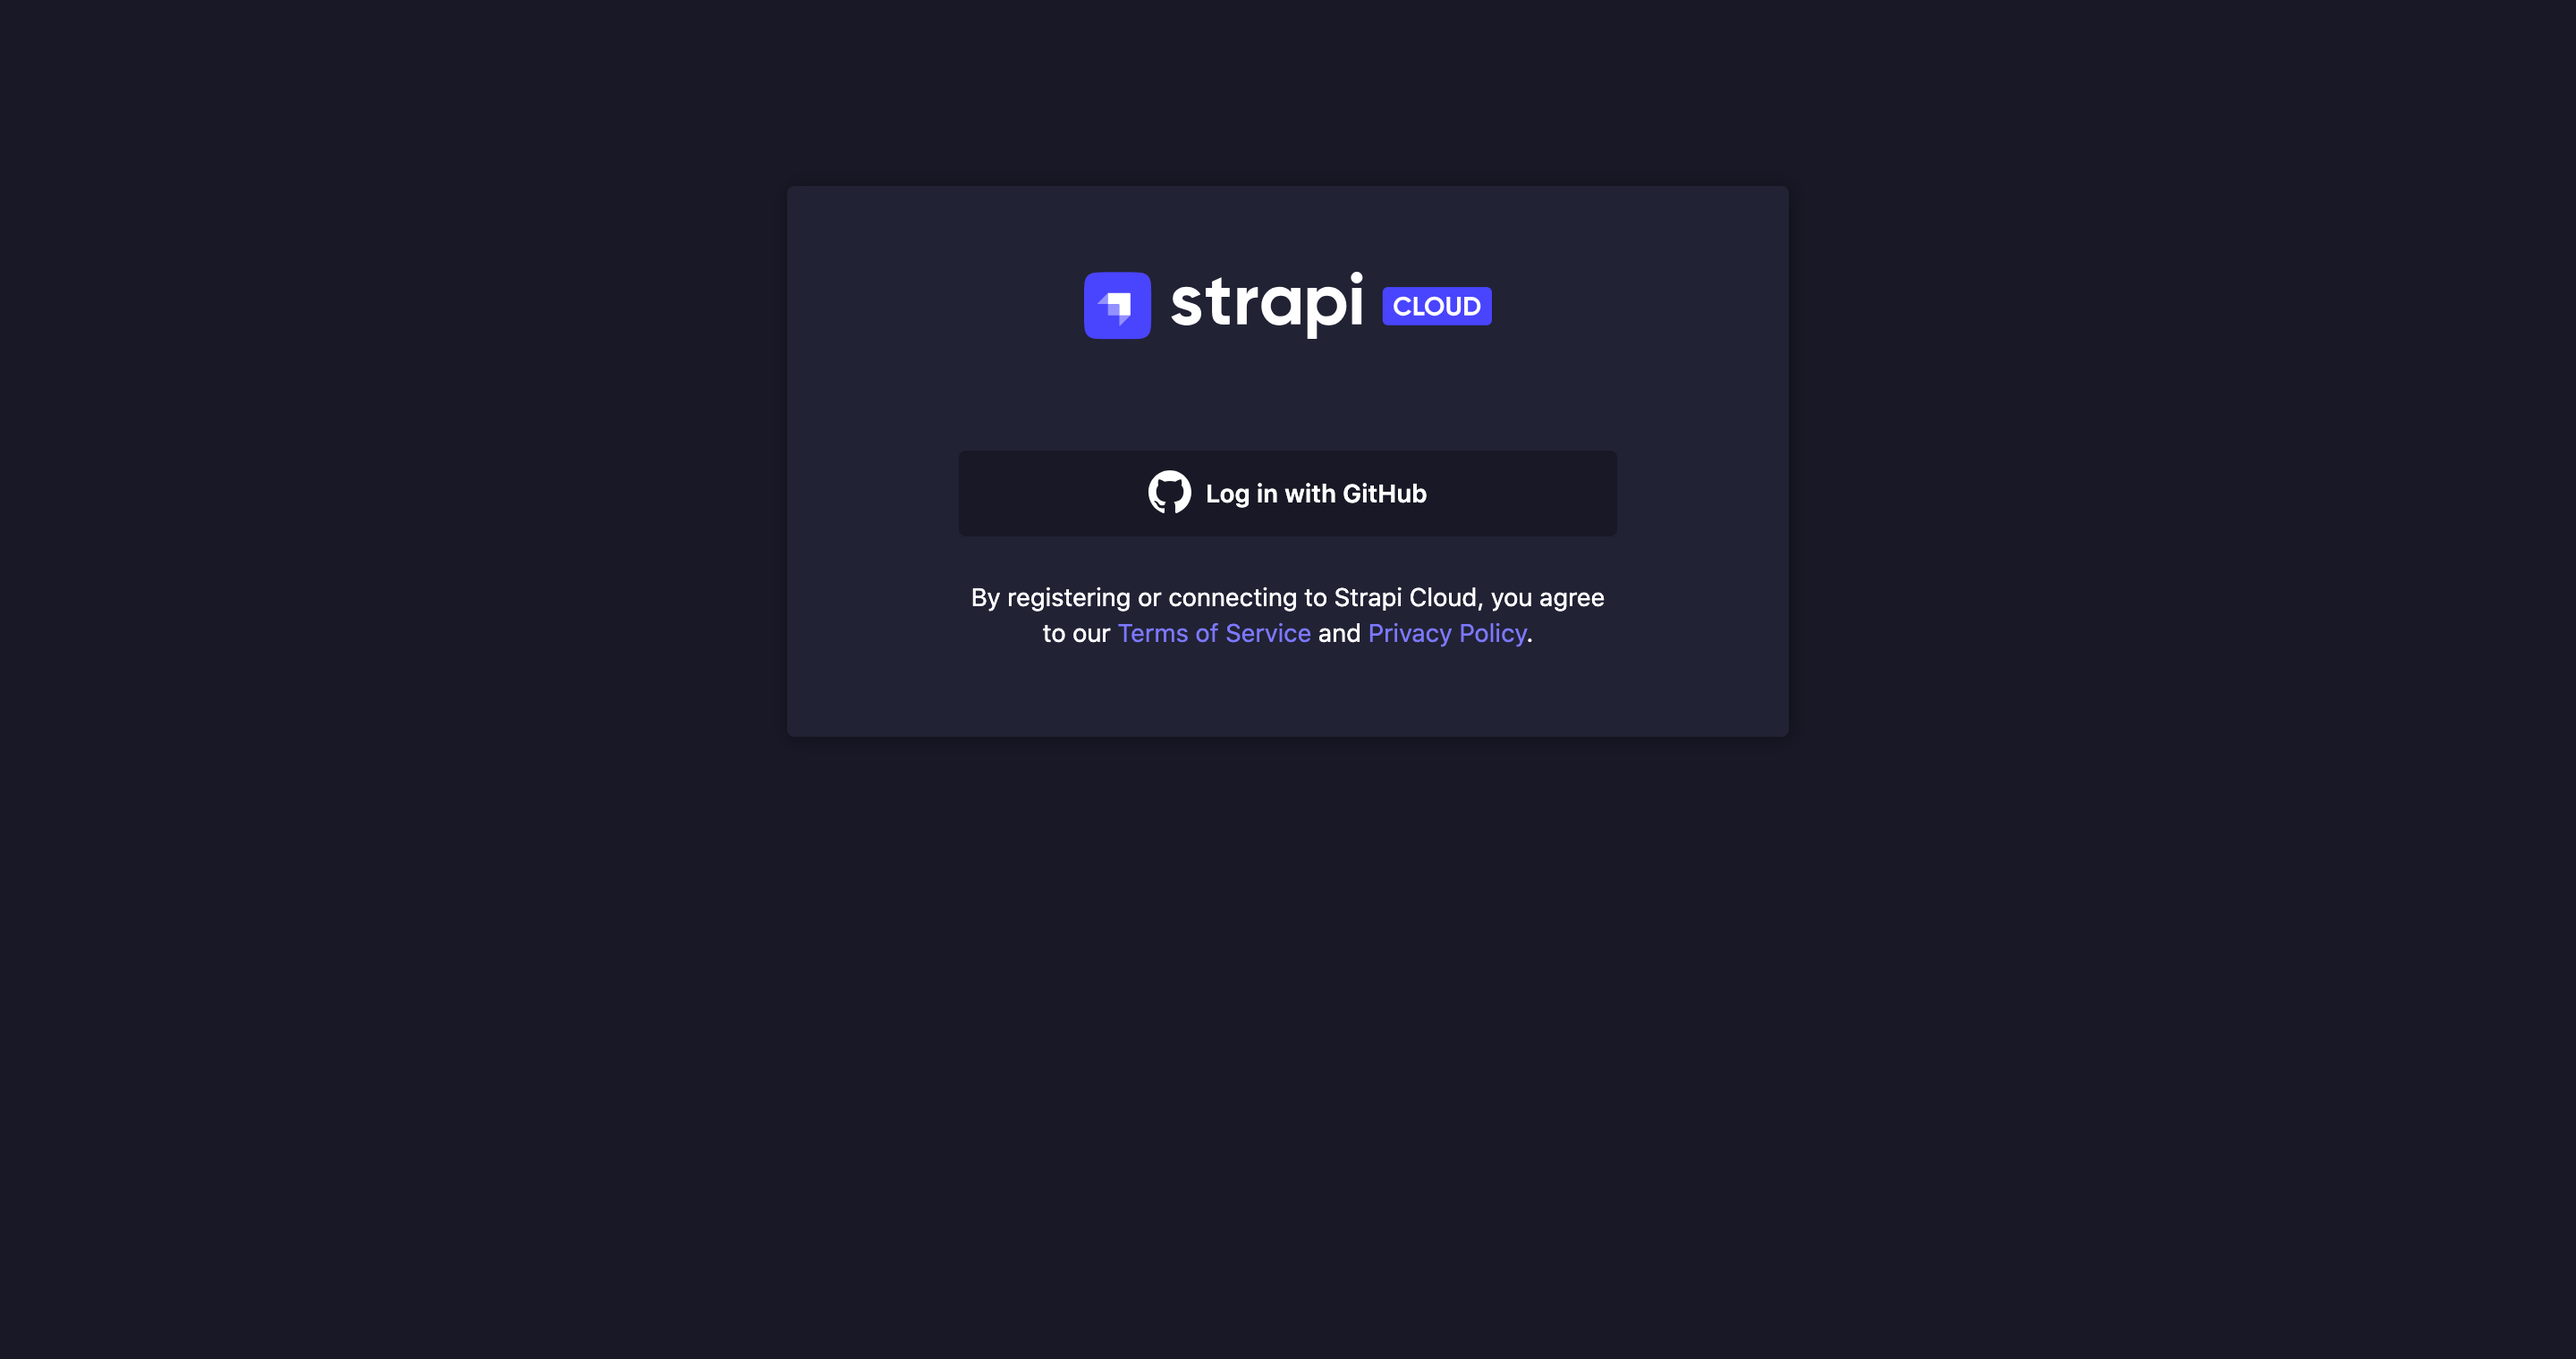
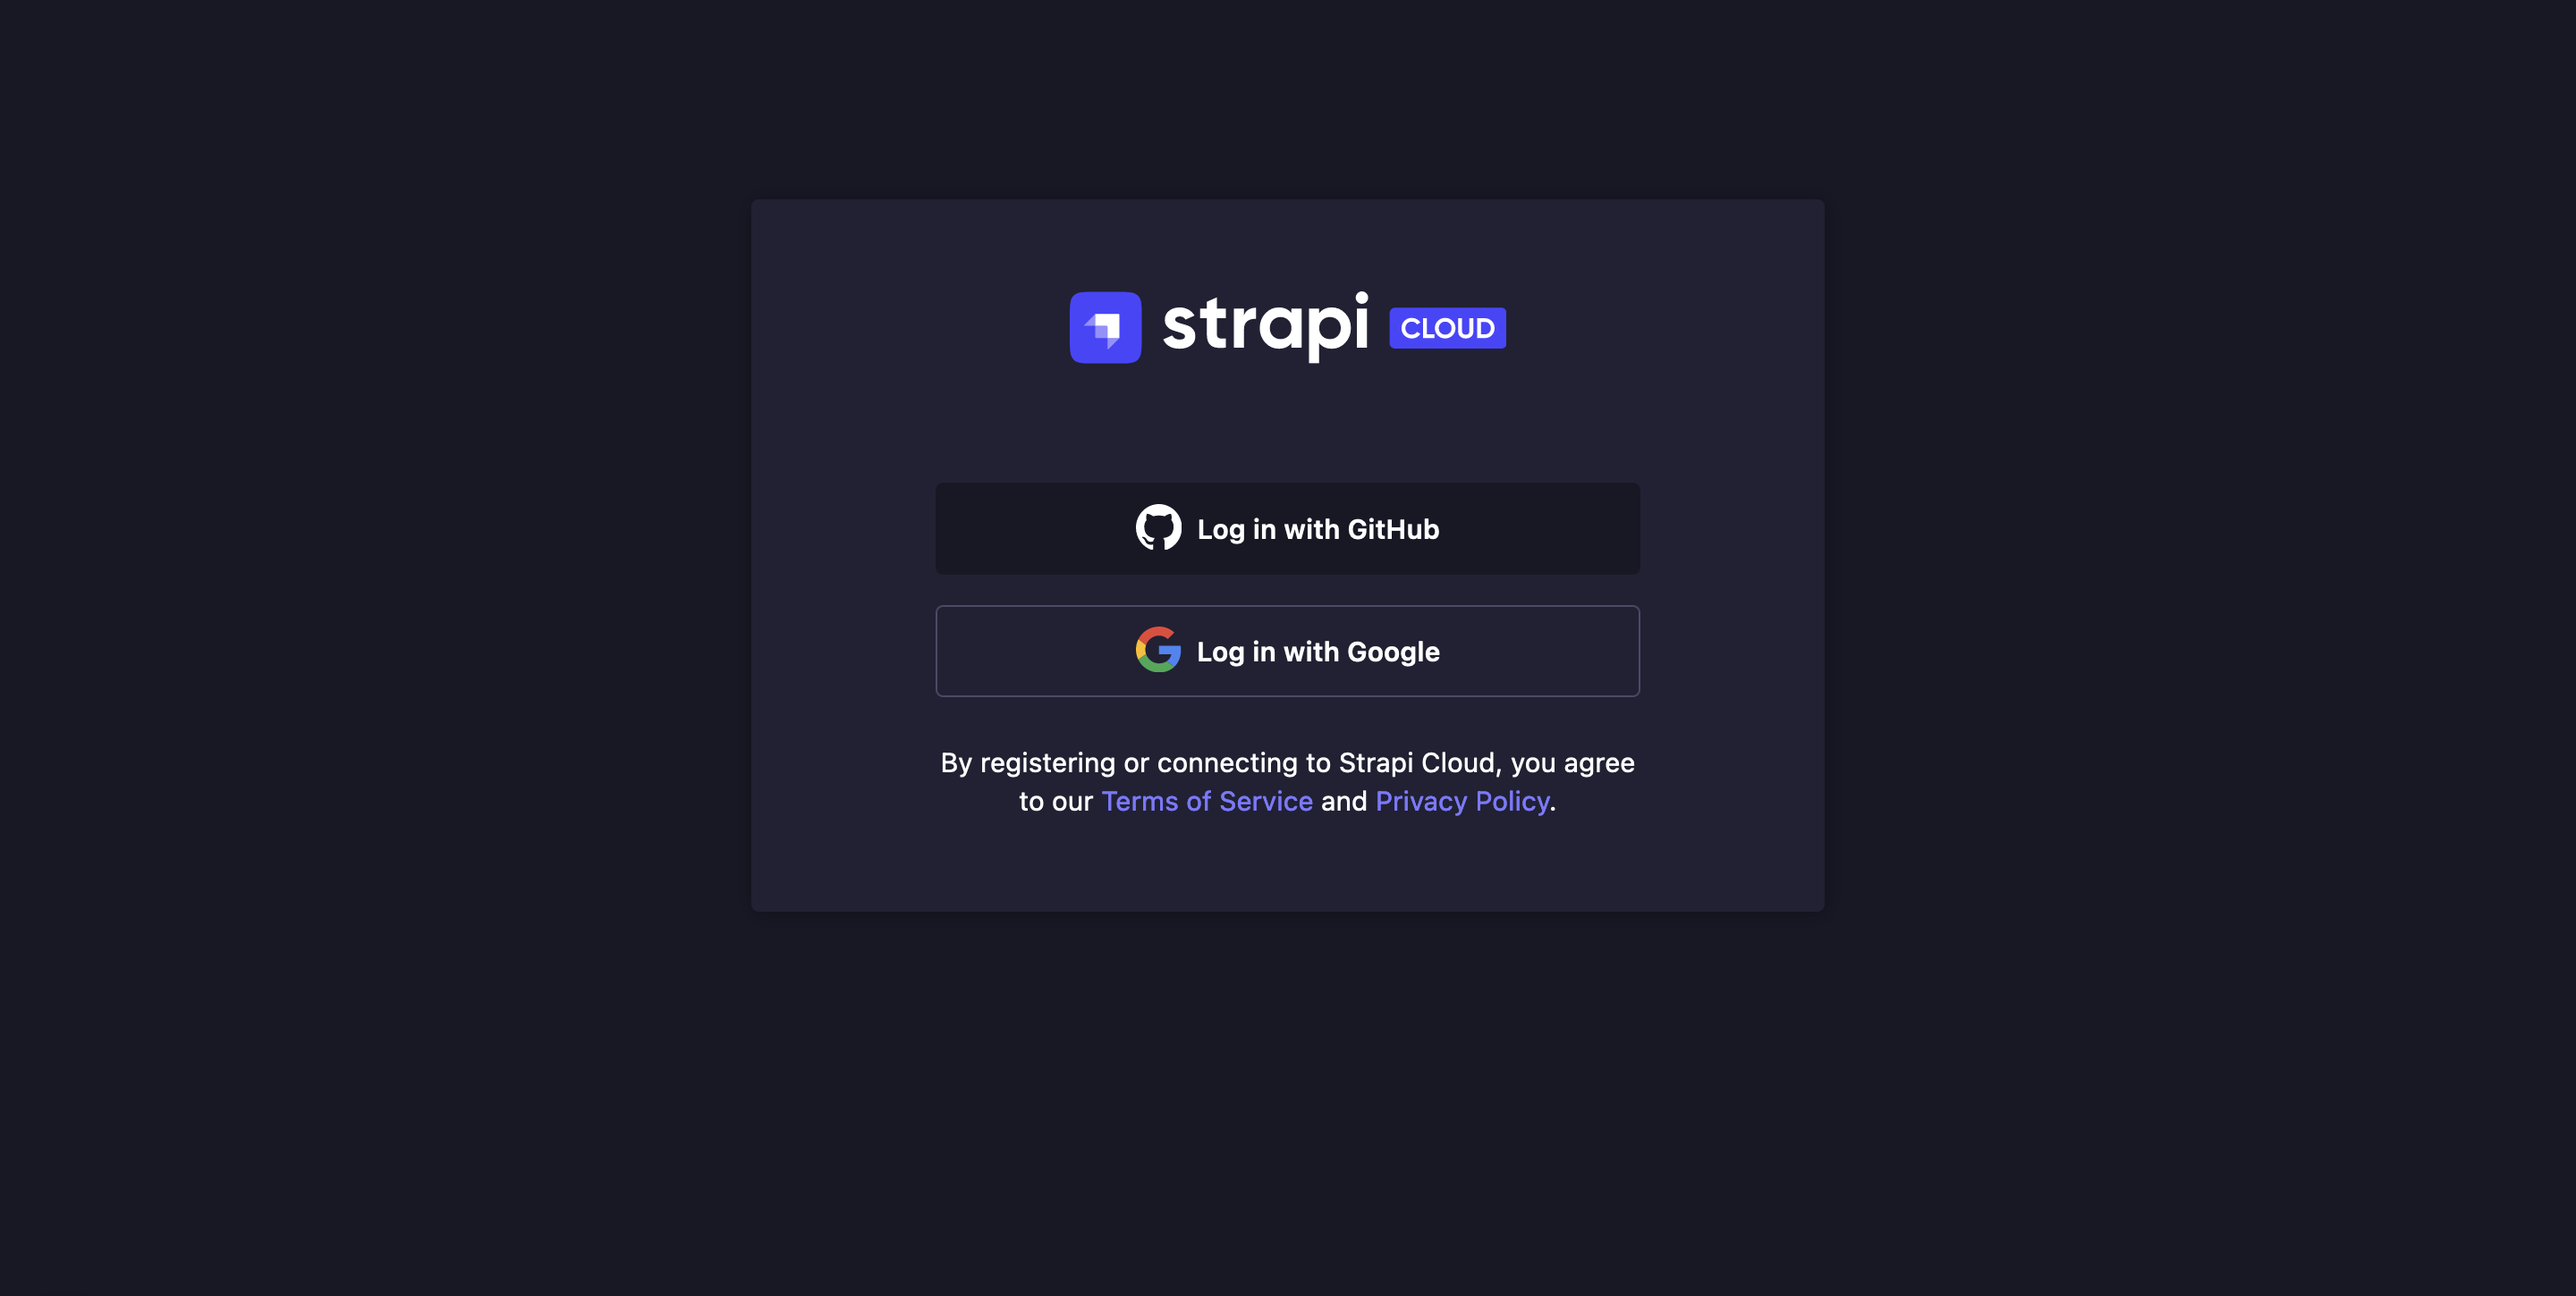
Update Strapi Cloud docs for Multiple Auth MVP (Google auth) (#1826)
* Update text

* Update TOC to highlight updates

* Update screenshots

* Fix previous push mistakes

* Draft update for Connected Accounts

* Update text for Connected Accounts

* Update screenshots

* Mention button to manage connected account

Changed region(s): [[0.375, 0.3414, 0.625, 0.5276], [0.4062, 0.1862, 0.5938, 0.2793], [0.375, 0.5586, 0.625, 0.6207]]

diff --git a/docusaurus/docs/cloud/account/settings.md b/docusaurus/docs/cloud/account/settings.md
@@ -7,35 +7,33 @@ canonicalUrl: https://docs.strapi.io/cloud/account/settings.html
 
 # Account profile
 
-The *Profile* page enables you to manage your account details and preferences. It is accessible by clicking on your profile picture, on the top right hand corner of the interface, and **Profile**. There are 3 tabs available in the *Profile* interface: *General*, *Preferences* and *Billing*. 
+The *Profile* page enables you to manage your account details and preferences. It is accessible by clicking on your profile picture, on the top right hand corner of the interface, and **Profile**. There are 3 tabs available in the *Profile* interface: *General*, *Preferences* and *Billing*.
 
 ## General
 
 The *General* tab enables you to edit the following details for your account profile:
 
-- Details: to see the name associated with your account, which is based on the one defined in your GitHub account.
+- Details: to see the name associated with your account.
+- Connected accounts: to manage Google and GitHub accounts connected with your Strapi Cloud account.
 - Delete account: to permanently delete your Strapi Cloud account (see [Deleting Strapi Cloud account](#deleting-strapi-cloud-account)).
+
+<!-- TODO: replace with screenshot with connected accounts -->
 
 <ThemedImage
   alt="General tab of Profile page"
   sources={{
-    light: '/img/assets/cloud/account-deletion.png',
-    dark: '/img/assets/cloud/account-deletion_DARK.png',
+    light: '/img/assets/cloud/settings-general.png',
+    dark: '/img/assets/cloud/settings-general_DARK.png',
   }}
 />
 
-<!--
-### Modifying profile details
+### Managing connected accounts
 
-1. In the *Details* section of the *General* tab, modify the information of your choice:
+You can connect a Google account and a GitHub account to your Strapi Cloud account. The _Connected accounts_ section lists accounts that are currently connected to your Strapi Cloud account. From there you can also connect a new Google or GitHub account if one is not already connected.
 
-    | Setting name    | Instructions                                                             |
-    | --------------- | ------------------------------------------------------------------------ |
-    | Name            | Write your full name in the textbox.                                     |
-    | Email           | Write your complete email address in the textbox.                        |
-    
-2. Click on the **Save** button.
--->
+To connect a new Google or GitHub account to your Strapi Cloud account, click on the **Connect account** button and follow the next steps on the corresponding website.
+
+You can also click on the three dots button of a connected account and click on the "Manage on" button to manage your GitHub or Google account directly on the corresponding website.
 
 ### Deleting Strapi Cloud account
 

diff --git a/docusaurus/docs/cloud/projects/collaboration.md b/docusaurus/docs/cloud/projects/collaboration.md
@@ -8,7 +8,7 @@ sidebar_position: 1
 
 # Collaboration on projects
 
-Projects are created by a user via their Strapi Cloud account, which is linked to their GitHub account. Strapi Cloud users can share their projects to anyone else, so these new users can have access to the Cloud dashboard and collaborate on that project, without the project owner to ever have to share their GitHub credentials.
+Projects are created by a user via their Strapi Cloud account. Strapi Cloud users can share their projects to anyone else, so these new users can have access to the Cloud dashboard and collaborate on that project, without the project owner to ever have to share their credentials.
 
 Users invited to collaborate on a project, called maintainers, do not have the same permissions as the project owner. Contrary to the project owner, maintainers:
 
@@ -38,7 +38,7 @@ To invite a new maintainer to collaborate on a project:
 New maintainers will be sent an email containing a link to click on to join the project. Once a project is shared, avatars representing the maintainers will be displayed in the project dashboard next to the **Share** button, to see how many maintainers collaborate on that project and who they are.
 
 :::tip
-Avatars use GitHub profile pictures, but for pending users only initials will be displayed until the activation of the maintainer account. You can hover over an avatar to display the full name of the maintainer.
+Avatars use GitHub or Google profile pictures, but for pending users only initials will be displayed until the activation of the maintainer account. You can hover over an avatar to display the full name of the maintainer.
 :::
 
 ## Managing maintainers

diff --git a/docusaurus/docs/cloud/getting-started/deployment.md b/docusaurus/docs/cloud/getting-started/deployment.md
@@ -22,7 +22,7 @@ Before you can deploy your Strapi application on Strapi Cloud, you need to have 
 
 1. Navigate to the [Strapi Cloud](https://cloud.strapi.io) login page.
 
-2. You are prompted to **Log in with GitHub**. This initial login will create your Strapi Cloud account. Once logged in, you will be redirected to the Strapi Cloud *Projects* page where you can create your first Strapi Cloud project.
+2. You are prompted to **Log in with GitHub** or **Log in with Google**. Choose your provider and log in. This initial login will create your Strapi Cloud account. Once logged in, you will be redirected to the Strapi Cloud *Projects* page where you can create your first Strapi Cloud project.
 
     <ThemedImage
     alt="Strapi Cloud login page"
